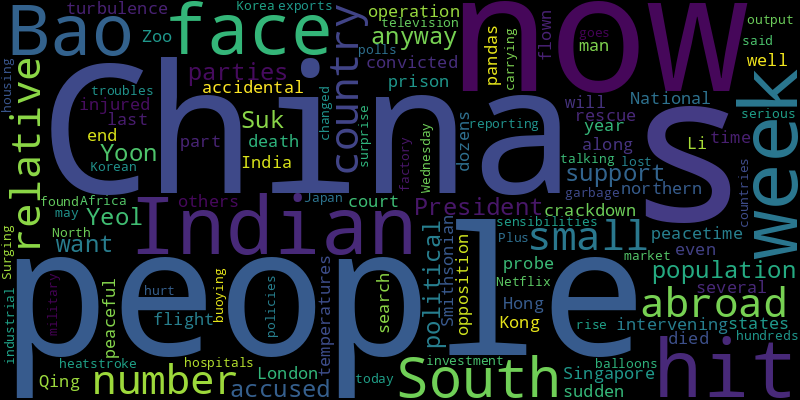
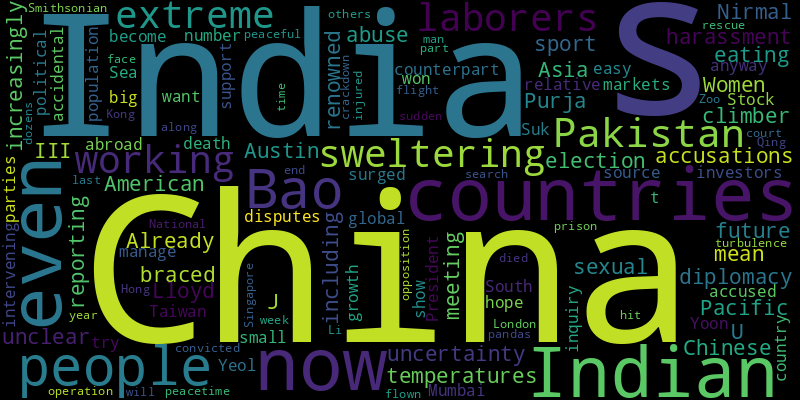
chore(bot): 👻 auto commit

diff --git a/README.md b/README.md
@@ -2,41 +2,41 @@
 Auto RSS New York Times and Generate Word Cloud
 
 ## New York Times Global News
-* Israel’s national security adviser, Tzachi Hanegbi, appeared to reject the idea of a quick end to the war, though it was unclear what the intensity of the campaign would be.
-* There is a substantial consensus among legal experts that Israel cannot continue its current Rafah offensive without violating the court’s order.
+* After weeks of entreaties, Ukraine won permission to hit targets inside Russia with American-made weapons, a tactic that it says will help it defend territory in the northeast.
+* Already braced for uncertainty about the U.S. election, Asia-Pacific countries are now even more unclear about the future of American diplomacy.
+* The Israeli military said its forces backed by tanks and artillery were operating in the center of Rafah, despite pressure from allies to ease up on its latest offensive.
+* Pakistan and India are sweltering. For laborers, not working because of the extreme temperatures can mean not eating.
+* Lloyd J. Austin III is meeting his Chinese counterpart as both countries try to show they can manage their disputes over Taiwan and the South China Sea.
+* More NATO allies are backing Kyiv’s pleas to allow its forces to conduct strikes in Russian territory with Western weapons.
+* A radar facility more than 1,100 miles into Russia was damaged, satellite imagery showed. The attacks have drawn concern from U.S. officials.
+* Prime Minister Robert Fico had been shot during a meeting with supporters. The hospital’s director told a TV station Mr. Fico could continue treatment at home.
 * As part of China’s crackdown on even peaceful opposition, a court in Hong Kong convicted 14 people, who now face prison time along with dozens of others.
-* A festival of classic cars from the communist era brings out some nostalgia in eastern Germany for pre-unification days, although the abuses that occurred behind the Iron Curtain aren’t forgotten.
 * Claudia Sheinbaum is the front-runner in Mexico’s presidential race, but she is wrestling with the image that she could be a pawn of the current president.
-* A man died and more than 70 other people were injured last week when a flight to Singapore from London hit sudden turbulence.
-* President Yoon Suk Yeol has been accused of intervening in a probe into an accidental death during a peacetime search and rescue operation.
-* Officials in the southern part of the country have rescued more than 12,500 animals in recent weeks since catastrophic floods inundated cities and towns.
-* President Biden is weighing fears of escalation with a nuclear-armed adversary as he considers whether to let Ukraine shoot American weapons into Russia.
-* In northeastern Ukraine, and in the part of Russia it touches, the war strains the emotions of people with relatives, and family histories, that span both sides.
 
 ![Global](./global.png)
 ## New York Times United States News
-* The modified Dodge Charger roaming Seattle’s downtown by night has infuriated residents. But it seems no one can stop it.
-* The speaker of the State House, Dade Phelan, survived a primary challenge from a Trump-backed activist, but many other Republican incumbents were ousted in bitter primary races.
-* Maurie D. McInnis, a cultural historian, will be the first woman to serve as the school’s permanent president.
+* A Democratic state lawmaker was charged with burglary in April. Her fate could threaten a slim majority Democrats have in the Minnesota Senate.
+* The job is not what it used to be. There are openings at U.C.L.A., Yale, Harvard, Cornell, Penn … and many, many others.
 * Justine Payton was drawn to a Hare Krishna ashram for its yoga, meditation and vegan meals. She’s still figuring out what went wrong.
-* Legal ethicists welcomed the fact that the justice gave reasons for staying on two Jan. 6 cases, a break from court tradition. But they said his rationale was open to criticism.
-* President Biden and former President Donald J. Trump both see Black outreach as critical to winning in November. But their approaches differ in fundamental and revealing ways.
-* Senator Bob Casey’s re-election campaign and the campaign arm of Senate Democrats have so far spent the most in a race that could determine control of the closely divided chamber.
-* The sea lion population at the city’s Pier 39 reached 2,000 this week, setting a record.
-* The finals on Thursday night will determine which of the remaining spellers takes home $50,000.
-* A defendant charged with driving with a suspended license appeared via Zoom while driving. “I don’t know why he would do that,” a perplexed judge said.
+* The billionaire Rob Hale gave the 1,200 graduates of the University of Massachusetts Dartmouth a gift, and asked them to give, too.
+* The Constitution and U.S. law have clear answers for only some of the questions raised by the criminal conviction of a major presidential candidate.
+* The former president could face probation or prison time. Either option would be without precedent.
+* Donald J. Trump has promised to appeal, but he may face limits on his ability to travel and to vote as he campaigns for the White House.
+* The city will dedicate a memorial site on Friday. For some of the families who lost loved ones, the commemoration is a reminder of unanswered questions.
+* The political fallout is far from certain, but the verdict will test America’s traditions, legal institutions and ability to hold an election under historic partisan tension.
+* Bruhat Soma spelled a stunning 29 words correctly in a 90-second spell-off to win the Scripps National Spelling Bee.
 
 ![US](./usnews.png)
 ## New York Times Asia News
+* Pakistan and India are sweltering. For laborers, not working because of the extreme temperatures can mean not eating.
+* Already braced for uncertainty about the U.S. election, Asia-Pacific countries are now even more unclear about the future of American diplomacy.
+* Women are increasingly reporting sexual harassment and abuse in the sport, including accusations against the renowned climber Nirmal Purja.
+* Lloyd J. Austin III is meeting his Chinese counterpart as both countries try to show they can manage their disputes over Taiwan and the South China Sea.
+* Stock markets in Mumbai have surged as big global investors hope India can become a source of growth. It won’t be so easy.
 * The number of Indians abroad is small relative to the country’s population. Indian political parties want their support anyway.
-* President Yoon Suk Yeol has been accused of intervening in a probe into an accidental death during a peacetime search and rescue operation.
+* President Yoon Suk Yeol has been accused of intervening in an inquiry into an accidental death during a peacetime search and rescue operation.
 * A man died and more than 70 other people were injured last week when a flight to Singapore from London hit sudden turbulence.
 * As part of China’s crackdown on even peaceful opposition, a court in Hong Kong convicted 14 people, who now face prison time along with dozens of others.
 * The pandas, Bao Li and Qing Bao, will be flown to the Smithsonian National Zoo from China before the end of the year.
-* For weeks now, temperatures in several states in northern India have been well over 110, and hospitals have been reporting a rise in heatstroke.
-* The South Korean military said on Wednesday that it found hundreds of balloons carrying garbage from North Korea.
-* A surprise television hit, now on Netflix, has people talking about what Japan has lost with today’s changed sensibilities.
-* Surging exports and factory investment are buoying China’s output, but the housing market faces serious troubles and industrial policies may hurt other countries.
-* Plus, South Africa goes to the polls
 
 ![Asian](./asian.png)
